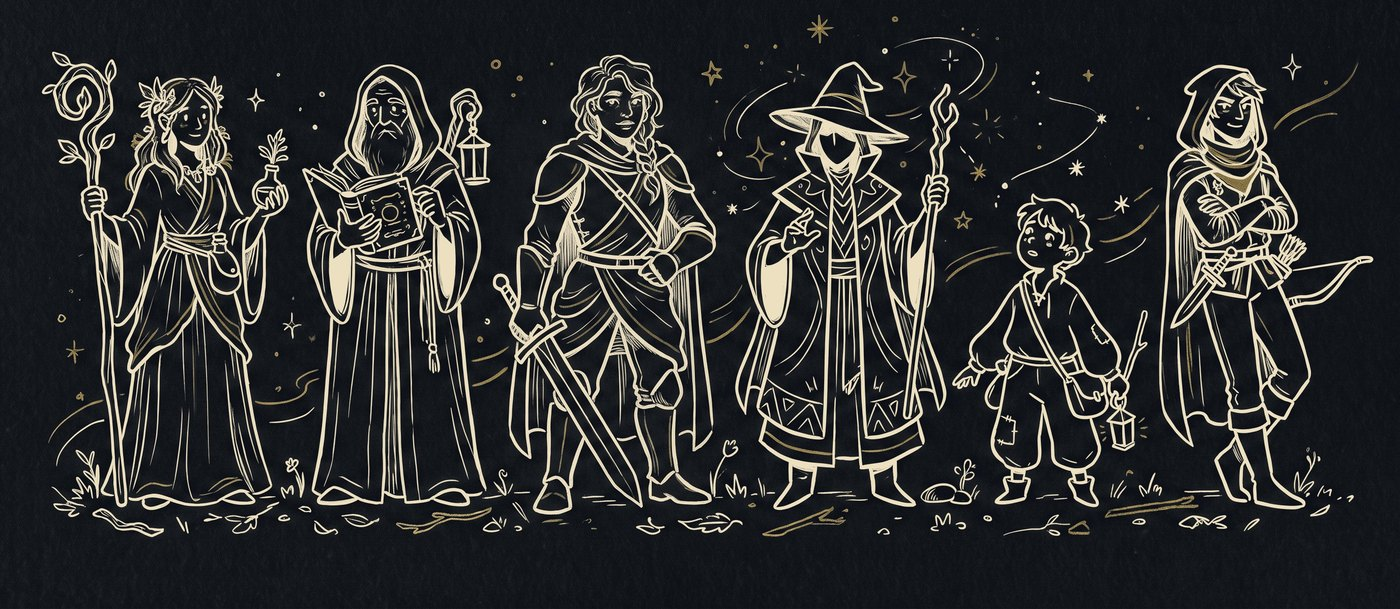
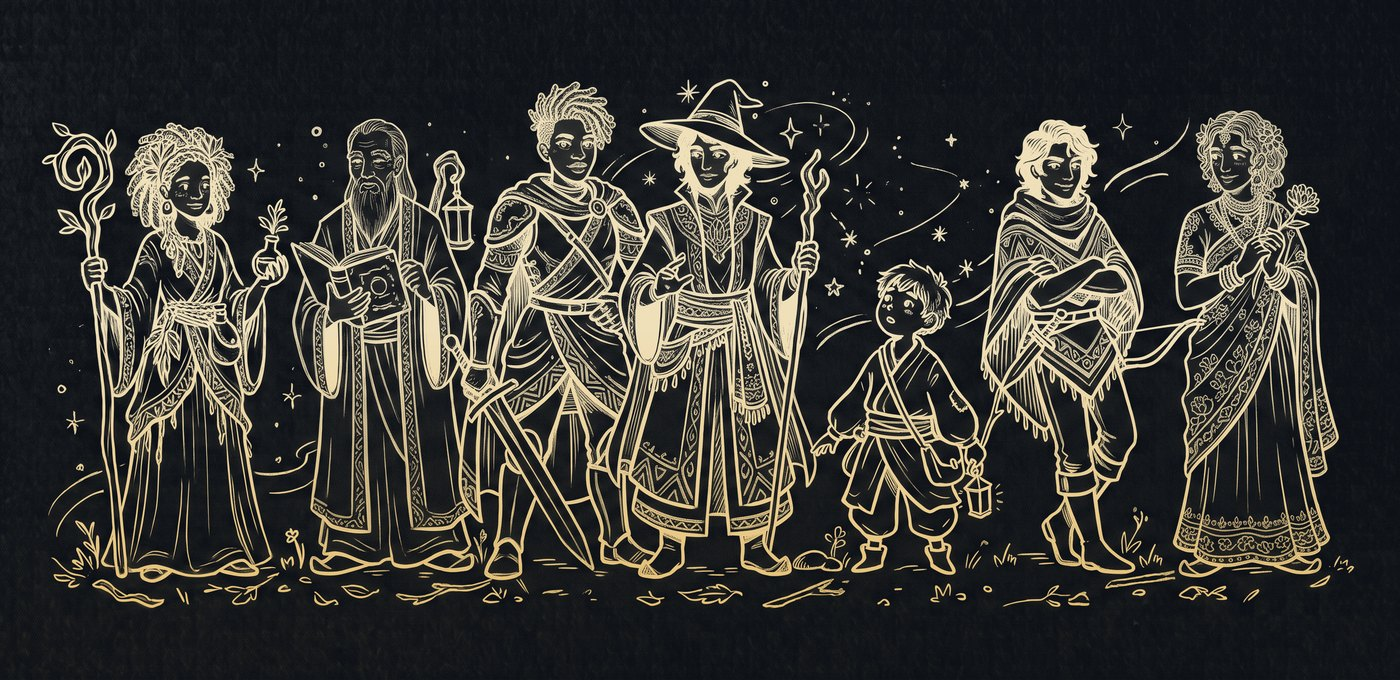
Archetypes image v2: 7 figures, diverse

diff --git a/index.html b/index.html
@@ -1306,7 +1306,7 @@
 
 <div id="s-welcome" class="screen" style="justify-content:center;text-align:center;">
   <div style="font-family:'Cinzel',serif;color:var(--gold);font-size:26px;letter-spacing:4px;line-height:1.4;">Welcome<br>Soul Traveller</div>
-  <img src="archetypes.jpg" alt="Seven archetypes: Healer, Sage, Warrior, Magician, Child, Rebel" style="display:block;width:100%;max-width:620px;margin:16px auto 0;-webkit-mask-image:radial-gradient(ellipse 72% 78% at 50% 50%,#000 62%,transparent 100%);mask-image:radial-gradient(ellipse 72% 78% at 50% 50%,#000 62%,transparent 100%);">
+  <img src="archetypes.jpg" alt="Seven archetypes: Healer, Sage, Warrior, Magician, Child, Rebel, Lover" style="display:block;width:100%;max-width:620px;margin:16px auto 0;-webkit-mask-image:radial-gradient(ellipse 72% 78% at 50% 50%,#000 62%,transparent 100%);mask-image:radial-gradient(ellipse 72% 78% at 50% 50%,#000 62%,transparent 100%);">
   <div style="height:20px"></div>
   <input type="text" class="text-input" id="nameInput" placeholder="your name or a fun handle" maxlength="20" autocomplete="off" oninput="document.getElementById('enterBtn').disabled = this.value.trim().length === 0" onkeydown="if(event.key==='Enter' && this.value.trim()){playPortalChime();enterPortal();}">
   <div style="margin-top:10px;font-size:13px;opacity:.6;letter-spacing:.5px">e.g. FlamingFlamingo67 · GoldenWeaver · WildBear</div>
